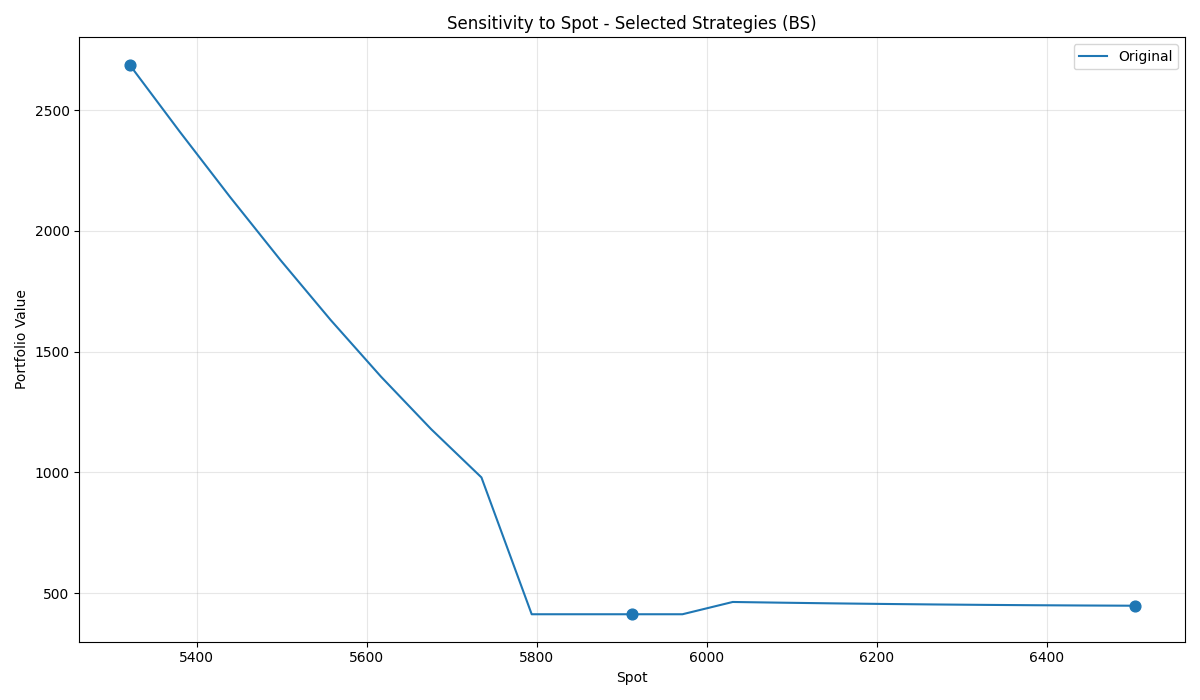
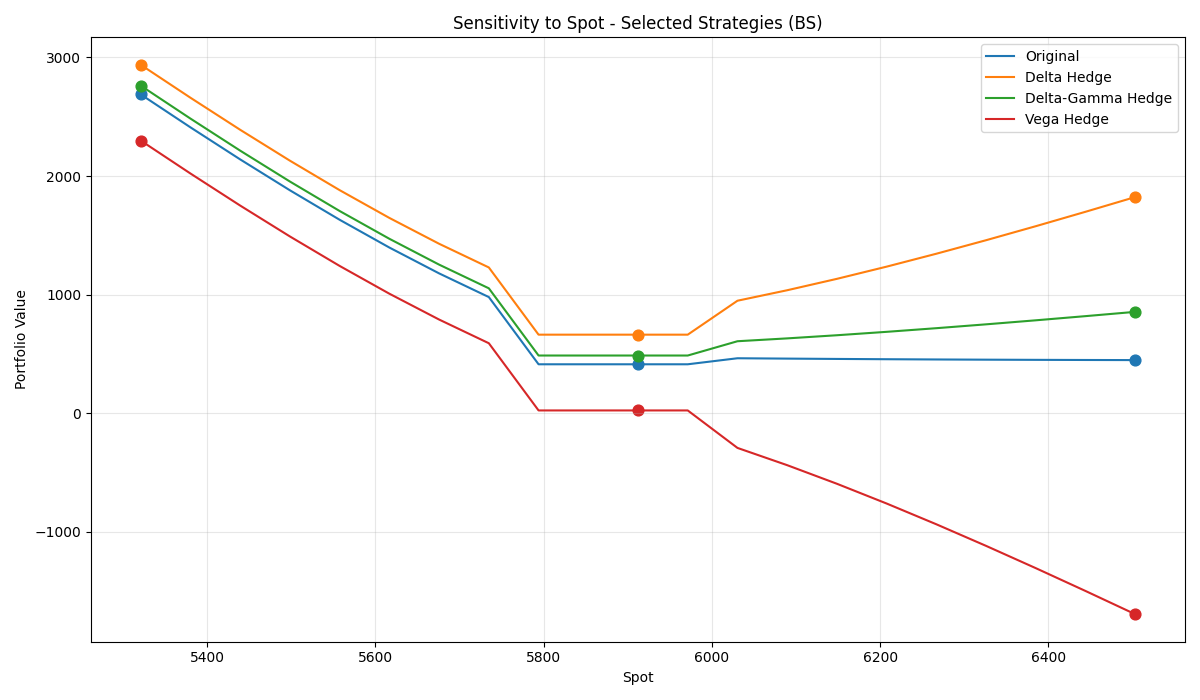
test

diff --git a/app.py b/app.py
@@ -154,15 +154,6 @@ if menu == "Portfolio Analysis - Black-Scholes":
             except Exception as e:
                 st.error(f"Error in calculation: {e}")
 
-    if st.button("Run Sensitivity Analysis", key="bs_sensitivity_btn"):
-        with st.spinner("Running sensitivity analysis..."):
-            try:
-                # Run sensitivity analysis
-                bsa.run_sensitivity_analysis_bs(portfolio, vis_dir="visualizations")
-                st.success("Sensitivity analysis completed. Check the visualizations directory for results.")
-            except Exception as e:
-                st.error(f"Error in sensitivity analysis: {e}")
-
 elif menu == "Portfolio Analysis - Binomial":
     st.write("Binomial portfolio model selected.")
     # Add Binomial portfolio logic here

diff --git a/option_pricing/black_scholes_model/bs_portfolio_analysis.py b/option_pricing/black_scholes_model/bs_portfolio_analysis.py
@@ -216,8 +216,6 @@ def run_sensitivity_analysis_bs(portfolio, vis_dir, selected_strategy):
         ('Delta-Gamma Hedge', portfolio_gamma_delta_hedged),
         ('Vega Hedge', portfolio_vega_hedged),
     ]
-    # Filter strategies based on selection
-    hedge_strategies = [s for s in hedge_strategies if s[0] == 'Original' or s[0] == selected_strategy]
     # 1. Sensibilidad Spot (±10%)
     spot_base = portfolio[0]['S']
     spot_range = np.linspace(spot_base*0.9, spot_base*1.1, 21)
